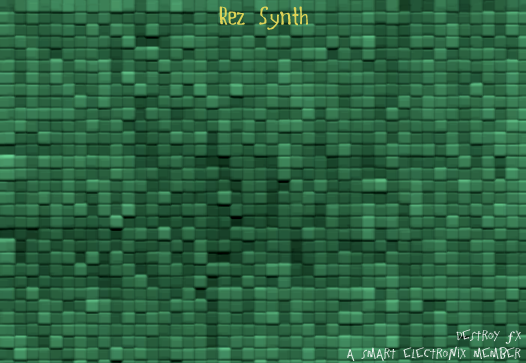
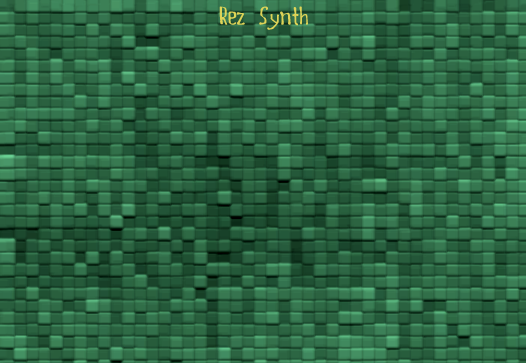
Geometer + Rez Synth + Scrubby + Skidder + Transverb: remove Smartelectronix link buttons from GUIs, since the group no longer really exists, and a link to the website doesn't provide the user with anything useful for our effects (Tom: please check the horizontal re-positioning of the Destroy FX lin

Changed region(s): [[0.6388, 0.9091, 1.0, 1.0]]

diff --git a/transverb/gui/transverbeditor.cpp b/transverb/gui/transverbeditor.cpp
@@ -67,10 +67,8 @@ enum
 
 	kDFXLinkX = 107,
 	kDFXLinkY = 281,
-	kSuperDFXLinkX = 159,
-	kSuperDFXLinkY = 339,
-	kSmartElectronixLinkX = 306,
-	kSmartElectronixLinkY = kSuperDFXLinkY,
+	kDestroyFXLinkX = 351,
+	kDestroyFXLinkY = 339,
 
 	kDisplayX = 318 - 1,
 	kDisplayY = 24,
@@ -343,8 +341,7 @@ long TransverbEditor::OpenEditor()
 	auto const midiLearnButtonImage = VSTGUI::makeOwned<DGImage>("midi-learn-button.png");
 	auto const midiResetButtonImage = VSTGUI::makeOwned<DGImage>("midi-reset-button.png");
 	auto const dfxLinkButtonImage = VSTGUI::makeOwned<DGImage>("dfx-link.png");
-	auto const superDestroyFXLinkButtonImage = VSTGUI::makeOwned<DGImage>("super-destroy-fx-link.png");
-	auto const smartElectronixLinkButtonImage = VSTGUI::makeOwned<DGImage>("smart-electronix-link.png");
+	auto const destroyFXLinkButtonImage = VSTGUI::makeOwned<DGImage>("super-destroy-fx-link.png");
 
 
 
@@ -484,12 +481,8 @@ long TransverbEditor::OpenEditor()
 	emplaceControl<DGWebLink>(this, pos, dfxLinkButtonImage, DESTROYFX_URL);
 
 	// Super Destroy FX web link
-	pos.set(kSuperDFXLinkX, kSuperDFXLinkY, superDestroyFXLinkButtonImage->getWidth(), superDestroyFXLinkButtonImage->getHeight() / 2);
-	emplaceControl<DGWebLink>(this, pos, superDestroyFXLinkButtonImage, DESTROYFX_URL);
-
-	// Smart Electronix web link
-	pos.set(kSmartElectronixLinkX, kSmartElectronixLinkY, smartElectronixLinkButtonImage->getWidth(), smartElectronixLinkButtonImage->getHeight() / 2);
-	emplaceControl<DGWebLink>(this, pos, smartElectronixLinkButtonImage, SMARTELECTRONIX_URL);
+	pos.set(kDestroyFXLinkX, kDestroyFXLinkY, destroyFXLinkButtonImage->getWidth(), destroyFXLinkButtonImage->getHeight() / 2);
+	emplaceControl<DGWebLink>(this, pos, destroyFXLinkButtonImage, DESTROYFX_URL);
 
 
 	return dfx::kStatus_NoError;

diff --git a/rezsynth/gui/rezsyntheditor.cpp b/rezsynth/gui/rezsyntheditor.cpp
@@ -80,12 +80,10 @@ enum
 	kMidiLearnButtonX = 189,
 	kMidiLearnButtonY = 331,
 	kMidiResetButtonX = kMidiLearnButtonX + 72,
-	kMidiResetButtonY = 331,
+	kMidiResetButtonY = kMidiLearnButtonY,
 
-	kDestroyFXLinkX = 453,
-	kDestroyFXLinkY = 327,
-	kSmartElectronixLinkX = 358,
-	kSmartElectronixLinkY = 345
+	kDestroyFXLinkX = 444,
+	kDestroyFXLinkY = 332
 };
 
 
@@ -215,7 +213,6 @@ long RezSynthEditor::OpenEditor()
 	auto const midiLearnButtonImage = VSTGUI::makeOwned<DGImage>("midi-learn-button.png");
 	auto const midiResetButtonImage = VSTGUI::makeOwned<DGImage>("midi-reset-button.png");
 	auto const destroyFXLinkImage = VSTGUI::makeOwned<DGImage>("destroy-fx-link.png");
-	auto const smartElectronixLinkImage = VSTGUI::makeOwned<DGImage>("smart-electronix-link.png");
 
 	auto const verticalValueDisplayBackgroundImage = VSTGUI::makeOwned<DGImage>("vertical-value-display-background.png");
 
@@ -378,10 +375,6 @@ long RezSynthEditor::OpenEditor()
 	// Destroy FX web page link
 	pos.set(kDestroyFXLinkX, kDestroyFXLinkY, destroyFXLinkImage->getWidth(), destroyFXLinkImage->getHeight() / 2);
 	emplaceControl<DGWebLink>(this, pos, destroyFXLinkImage, DESTROYFX_URL);
-
-	// Smart Electronix web page link
-	pos.set(kSmartElectronixLinkX, kSmartElectronixLinkY, smartElectronixLinkImage->getWidth(), smartElectronixLinkImage->getHeight() / 2);
-	emplaceControl<DGWebLink>(this, pos, smartElectronixLinkImage, SMARTELECTRONIX_URL);
 
 
 

diff --git a/skidder/gui/skiddereditor.cpp b/skidder/gui/skiddereditor.cpp
@@ -76,10 +76,8 @@ enum
 	kMidiResetButtonX = kMidiLearnButtonX,
 	kMidiResetButtonY = kMidiLearnButtonY + 20,
 
-	kDestroyFXLinkX = 286,
-	kDestroyFXLinkY = 372 - 19,
-	kSmartElectronixLinkX = 191,
-	kSmartElectronixLinkY = kDestroyFXLinkY + 18
+	kDestroyFXLinkX = 276,
+	kDestroyFXLinkY = 359
 };
 
 
@@ -192,7 +190,6 @@ long SkidderEditor::OpenEditor()
 	auto const midiLearnButtonImage = VSTGUI::makeOwned<DGImage>("midi-learn-button.png");
 	auto const midiResetButtonImage = VSTGUI::makeOwned<DGImage>("midi-reset-button.png");
 	auto const destroyFXLinkImage = VSTGUI::makeOwned<DGImage>("destroy-fx-link.png");
-	auto const smartElectronixLinkImage = VSTGUI::makeOwned<DGImage>("smart-electronix-link.png");
 
 
 	auto const rateParameterIDs = GetActiveRateParameterIDs();
@@ -258,10 +255,6 @@ long SkidderEditor::OpenEditor()
 	// Destroy FX web page link
 	pos.set(kDestroyFXLinkX, kDestroyFXLinkY, destroyFXLinkImage->getWidth(), destroyFXLinkImage->getHeight() / 2);
 	emplaceControl<DGWebLink>(this, pos, destroyFXLinkImage, DESTROYFX_URL);
-
-	// Smart Electronix web page link
-	pos.set(kSmartElectronixLinkX, kSmartElectronixLinkY, smartElectronixLinkImage->getWidth(), smartElectronixLinkImage->getHeight() / 2);
-	emplaceControl<DGWebLink>(this, pos, smartElectronixLinkImage, SMARTELECTRONIX_URL);
 
 
 	//--initialize the displays---------------------------------------------

diff --git a/geometer/gui/geometereditor.cpp b/geometer/gui/geometereditor.cpp
@@ -100,10 +100,8 @@ enum {
   pos_midiresetbuttonX = 228,
   pos_midiresetbuttonY = 343,
 
-  pos_destroyfxlinkX = 269,
+  pos_destroyfxlinkX = 395,
   pos_destroyfxlinkY = 500,
-  pos_smartelectronixlinkX = 407,
-  pos_smartelectronixlinkY = 500,
 
   pos_geometerviewx = 20,
   pos_geometerviewy = 14,
@@ -240,10 +238,8 @@ long GeometerEditor::OpenEditor() {
   // MIDI learn/reset buttons
   auto const g_midilearnbutton = VSTGUI::makeOwned<DGImage>("midi-learn-button.png");
   auto const g_midiresetbutton = VSTGUI::makeOwned<DGImage>("midi-reset-button.png");
-
   // web links
   auto const g_destroyfxlink = VSTGUI::makeOwned<DGImage>("destroy-fx-link.png");
-  auto const g_smartelectronixlink = VSTGUI::makeOwned<DGImage>("smart-electronix-link.png");
 
 
 
@@ -387,11 +383,6 @@ long GeometerEditor::OpenEditor() {
   pos.set(pos_destroyfxlinkX, pos_destroyfxlinkY, 
           g_destroyfxlink->getWidth(), g_destroyfxlink->getHeight() / 2);
   emplaceControl<DGWebLink>(this, pos, g_destroyfxlink, DESTROYFX_URL);
-
-  // Smart Electronix web page link
-  pos.set(pos_smartelectronixlinkX, pos_smartelectronixlinkY, 
-          g_smartelectronixlink->getWidth(), g_smartelectronixlink->getHeight() / 2);
-  emplaceControl<DGWebLink>(this, pos, g_smartelectronixlink, SMARTELECTRONIX_URL);
 
 
   //--initialize the help displays-----------------------------------------

diff --git a/scrubby/gui/scrubbyeditor.cpp b/scrubby/gui/scrubbyeditor.cpp
@@ -128,10 +128,8 @@ enum
 	kHelpX = 4,
 	kHelpY = 465,
 
-	kDestroyFXLinkX = 122,
+	kDestroyFXLinkX = 247,
 	kDestroyFXLinkY = 47,
-	kSmartElectronixLinkX = 260,
-	kSmartElectronixLinkY = 47,
 
 	kTitleAreaX = 125,
 	kTitleAreaY = 8,
@@ -464,7 +462,6 @@ long ScrubbyEditor::OpenEditor()
 	auto const midiLearnButtonImage = VSTGUI::makeOwned<DGImage>("midi-learn-button.png");
 	auto const midiResetButtonImage = VSTGUI::makeOwned<DGImage>("midi-reset-button.png");
 	auto const destroyFXLinkImage = VSTGUI::makeOwned<DGImage>("destroy-fx-link.png");
-	auto const smartElectronixLinkImage = VSTGUI::makeOwned<DGImage>("smart-electronix-link.png");
 
 
 
@@ -704,10 +701,6 @@ long ScrubbyEditor::OpenEditor()
 	// Destroy FX web page link
 	pos.set(kDestroyFXLinkX, kDestroyFXLinkY, destroyFXLinkImage->getWidth(), destroyFXLinkImage->getHeight() / 2);
 	emplaceControl<DGWebLink>(this, pos, destroyFXLinkImage, DESTROYFX_URL);
-
-	// Smart Electronix web page link
-	pos.set(kSmartElectronixLinkX, kSmartElectronixLinkY, smartElectronixLinkImage->getWidth(), smartElectronixLinkImage->getHeight() / 2);
-	emplaceControl<DGWebLink>(this, pos, smartElectronixLinkImage, SMARTELECTRONIX_URL);
 
 	pos.set(kTitleAreaX, kTitleAreaY, kTitleAreaWidth, kTitleAreaHeight);
 	mTitleArea = emplaceControl<DGNullControl>(this, pos);

diff --git a/dfx-library/dfxdefines.h b/dfx-library/dfxdefines.h
@@ -66,7 +66,6 @@ somewhere in the include tree for every file for a DfxPlugin.
 #endif
 
 #define DESTROYFX_URL	"http://destroyfx.org"
-#define SMARTELECTRONIX_URL	"http://smartelectronix.com"
 
 #ifndef PLUGIN_HOMEPAGE_URL
 	#define PLUGIN_HOMEPAGE_URL	DESTROYFX_URL
